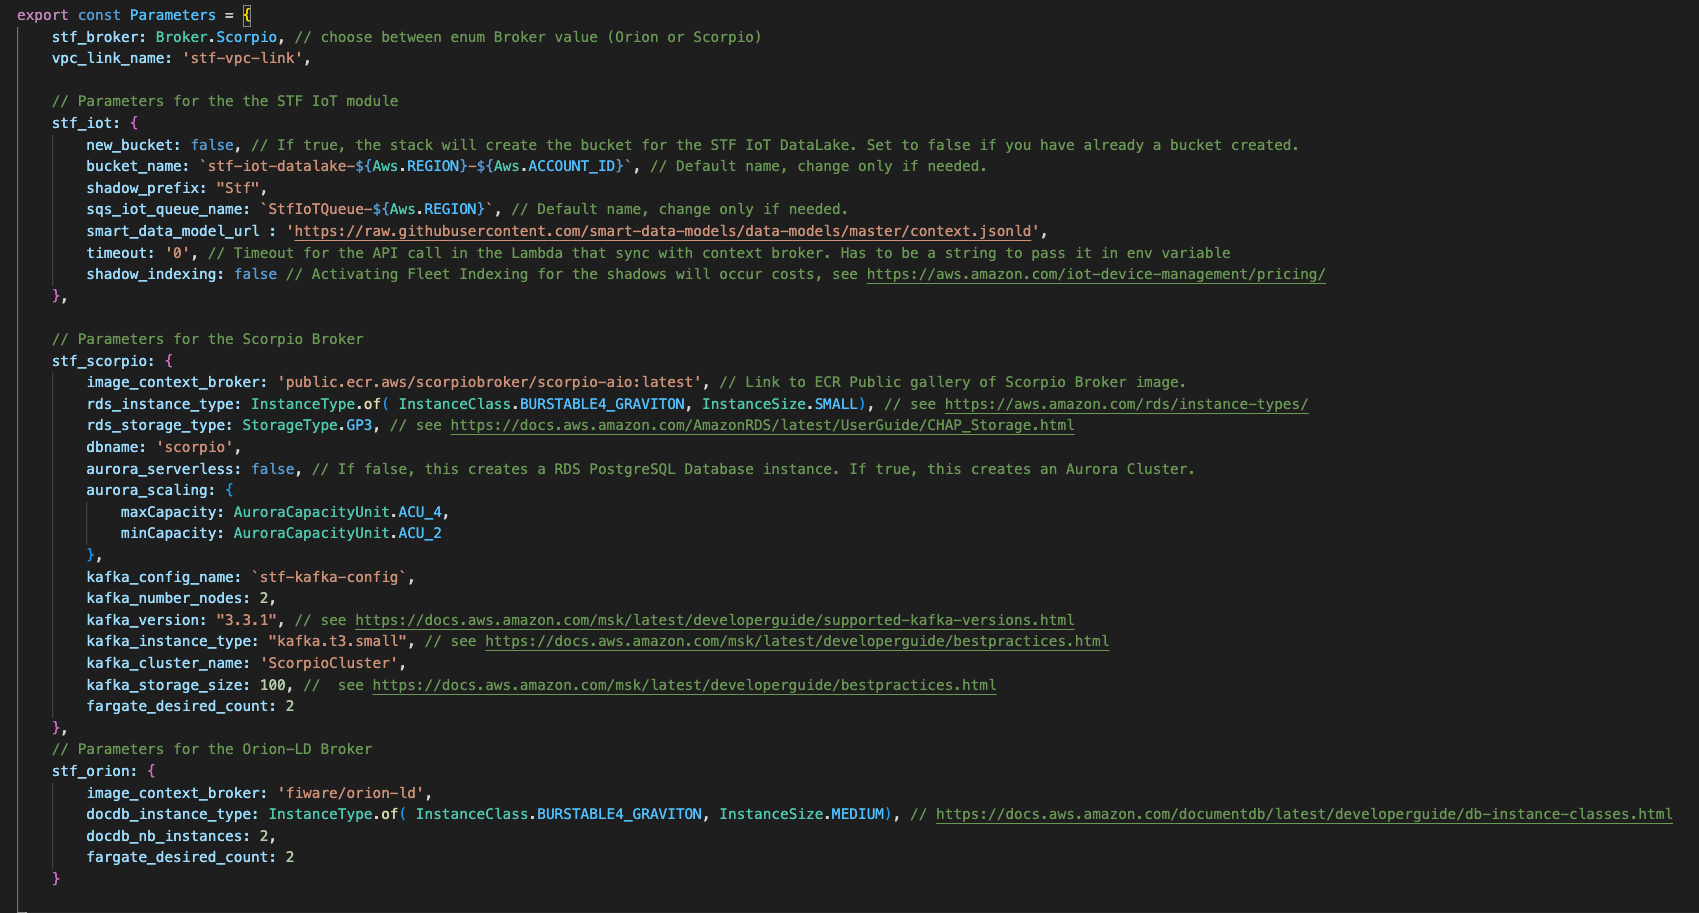
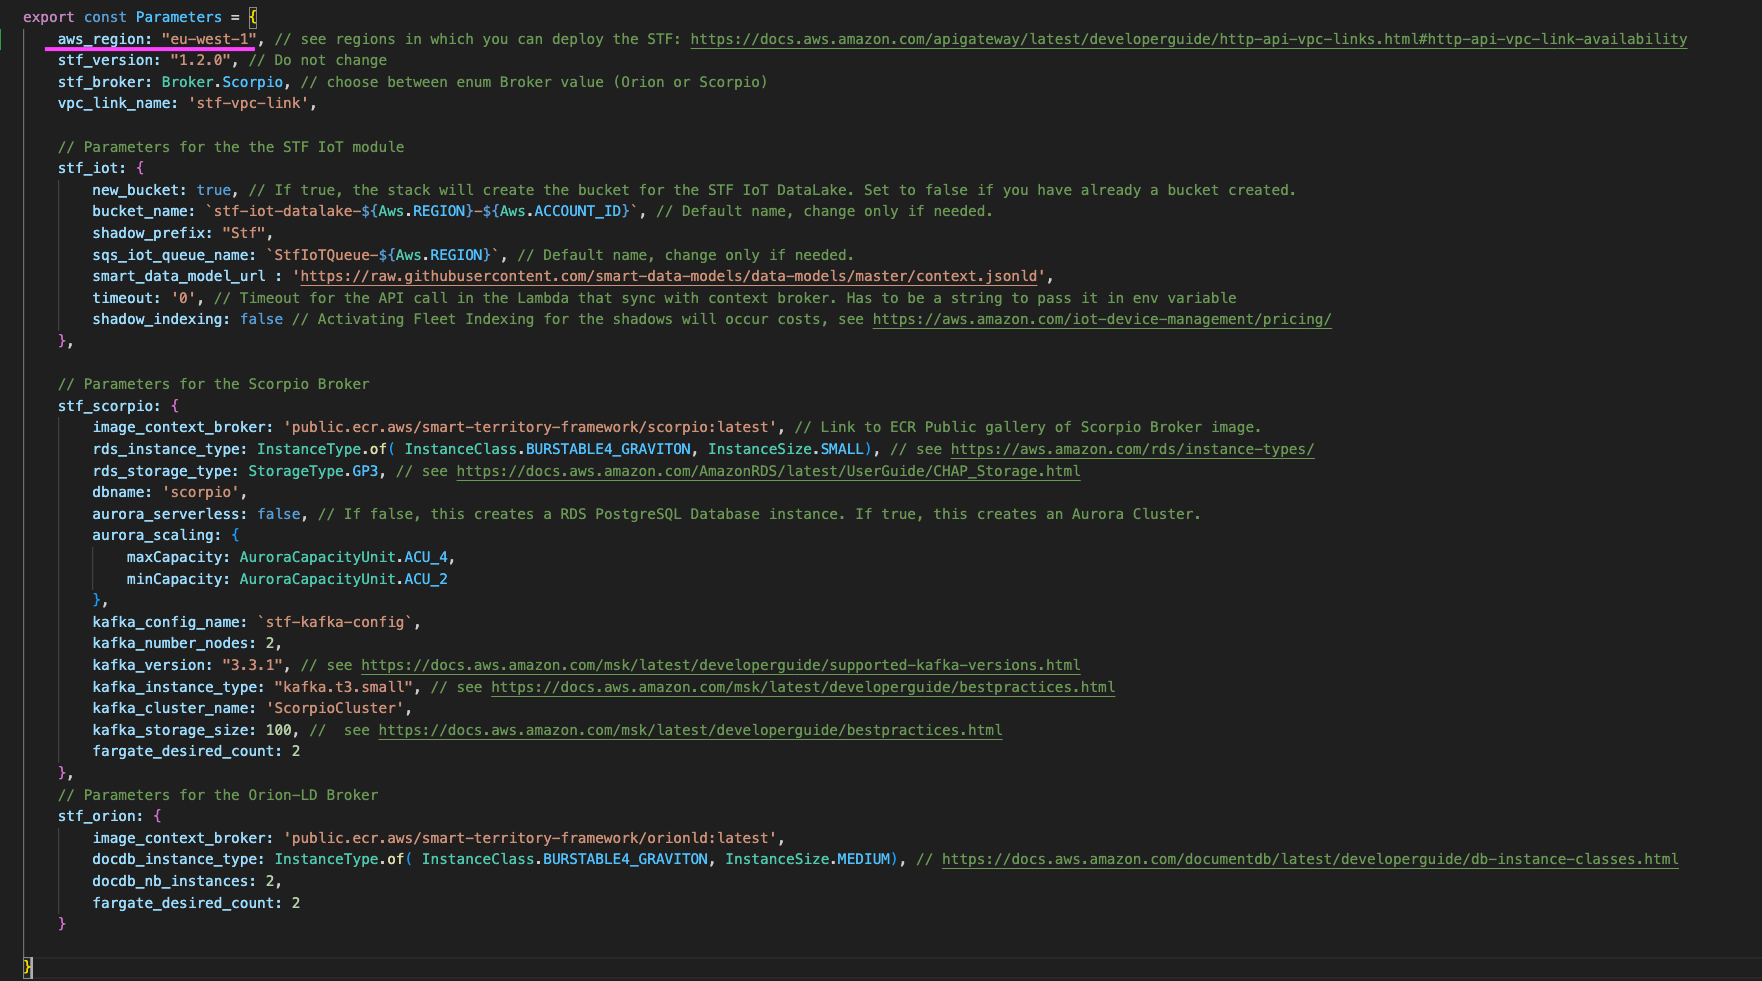
removed selection of the region in cli

Changed region(s): [[0.0312, 0.368, 0.967, 0.9507], [0.0, 0.0, 0.967, 0.3373], [0.0, 0.9814, 0.0312, 1.0]]

diff --git a/lib/stacks/stf-core-constructs/utils/index.ts b/lib/stacks/stf-core-constructs/utils/index.ts
@@ -14,7 +14,11 @@ export class Utils extends Construct {
 
     constructor(scope: Construct, id: string, props?: StfUtilProps) {
         super(scope, id)
-       
+        
+        if(Stack.of(this).region.startsWith('$')){
+          throw new Error('Please type a valid region in the parameter.ts file')
+        }
+
         if(!azlist[`${Stack.of(this).region}`]){
             throw new Error('The stack is not yet available in the region selected')
           }

diff --git a/parameters.ts b/parameters.ts
@@ -9,6 +9,7 @@ enum Broker {
 }
 
 export const Parameters = {
+    aws_region: "eu-west-1", // see regions in which you can deploy the STF: https://docs.aws.amazon.com/apigateway/latest/developerguide/http-api-vpc-links.html#http-api-vpc-link-availability
     stf_version: "1.2.0", // Do not change
     stf_broker: Broker.Scorpio, // choose between enum Broker value (Orion or Scorpio) 
     vpc_link_name: 'stf-vpc-link', 

diff --git a/bin/stf-core.ts b/bin/stf-core.ts
@@ -1,9 +1,11 @@
 #!/usr/bin/env node
-import * as cdk from 'aws-cdk-lib';
+import { App } from 'aws-cdk-lib';
 import { StfCoreStack } from '../lib/stf-core-stack';
+import { Parameters } from '../parameters';
 
-const app = new cdk.App();
+const app = new App();
 
 new StfCoreStack(app, 'StfCore', {
-    stackName: 'StfCore'
+    stackName: 'StfCore',
+    env: { region: Parameters.aws_region }
 })

diff --git a/README.md b/README.md
@@ -132,7 +132,8 @@ See [How to use it](##how-to-use-it) section for more details on how to use the 
 
 This repository contains an AWS CDK application that enables you to deploy and provision the STF Core stack code and its supporting infrastructure. AWS CDK provisions your resources in a safe, repeatable manner through AWS CloudFormation. 
 
-The application includes a file [```parameters.ts```](./parameters.ts) in which you can select the Context Broker and configure the resources that you will deploy like the type and size of instances to use for the database (and kafka for the Scorpio Broker). The default parameters will provide you with a scalable and available platform. 
+The application includes a file [```parameters.ts```](./parameters.ts) in which you can select the __region in which you will deploy the stack__, which Context Broker and configure the resources that you will deploy like the type and size of instances to use for the database (and kafka for the Scorpio Broker). The default parameters will provide you with a scalable and available platform. 
+
 
 *You can see __estimates__ of the monthly cost of running the STF Core using [Scorpio Broker](https://calculator.aws/#/estimate?id=113cc26502b945ddaf1e2b3c6440a26d9c19fb51) and [Orion-LD](https://calculator.aws/#/estimate?id=0d99befa9d480112ec458bd9959c271c311758f2).
 The AWS Pricing Calculator is an estimation tool that provides an __approximate cost__ of using AWS services based on the usage parameters that you specify. The AWS Pricing Calculator is not a quote tool, and does not guarantee the cost for your actual use of AWS services. The cost estimated by the AWS Pricing Calculator may vary from your actual costs for a number of reasons. 
